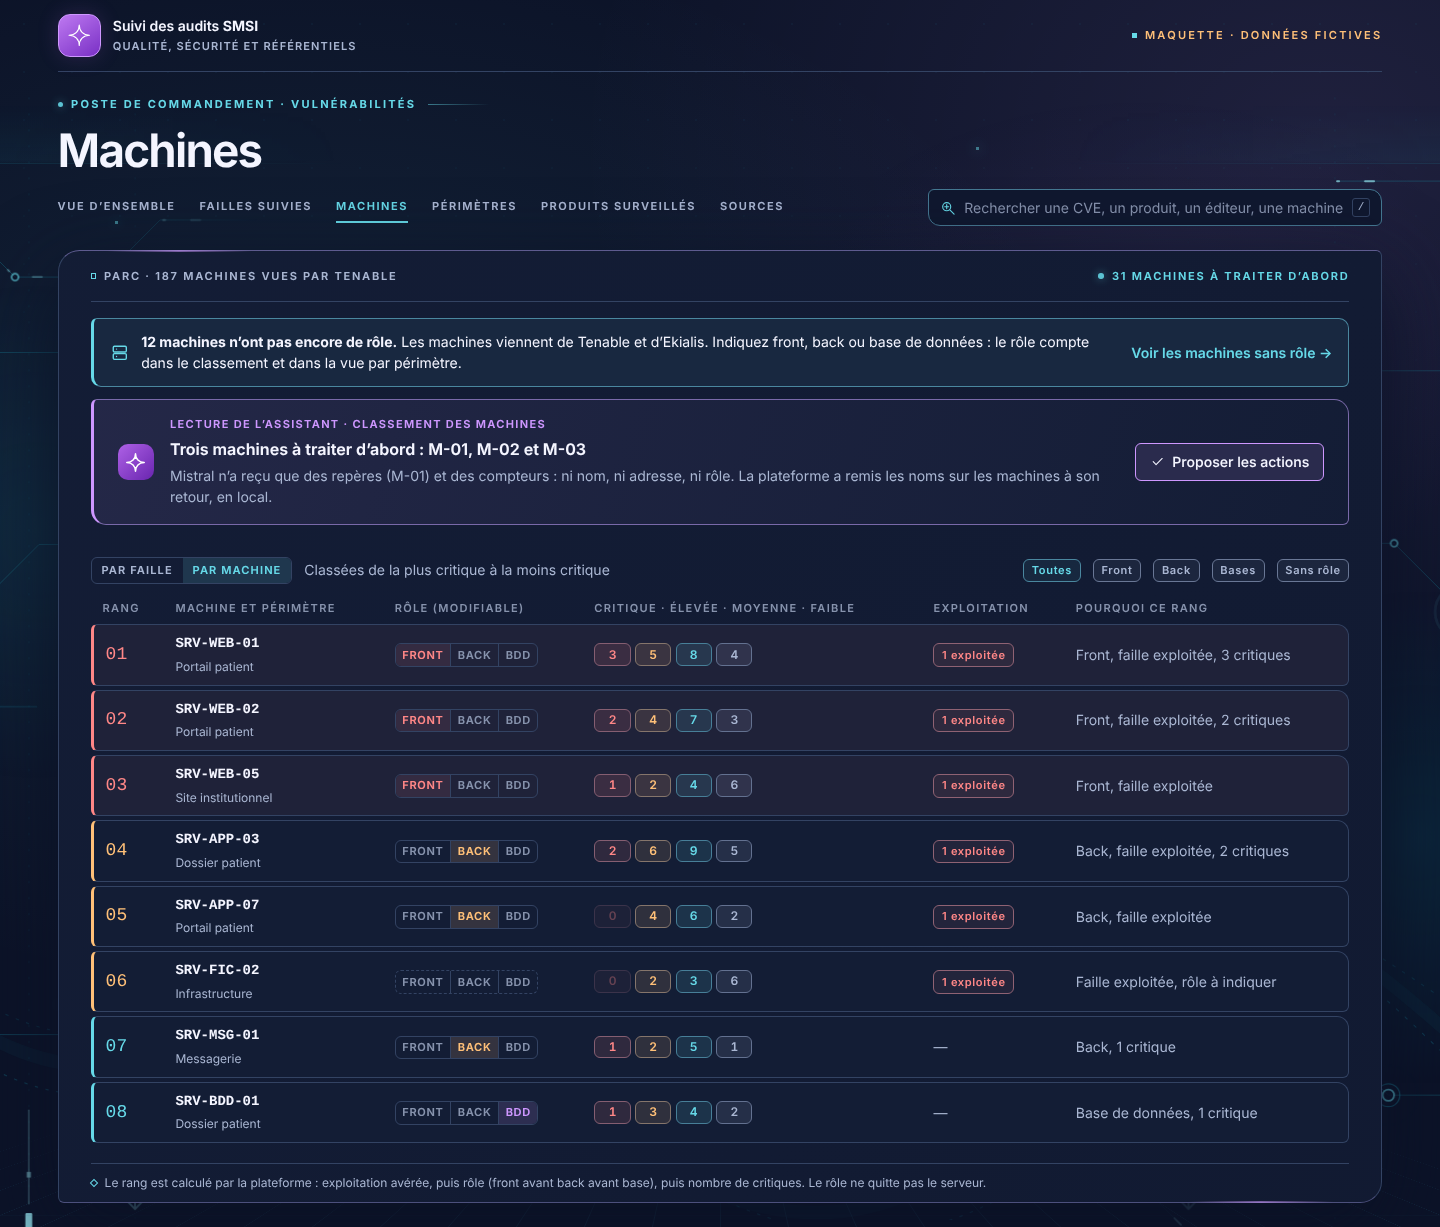
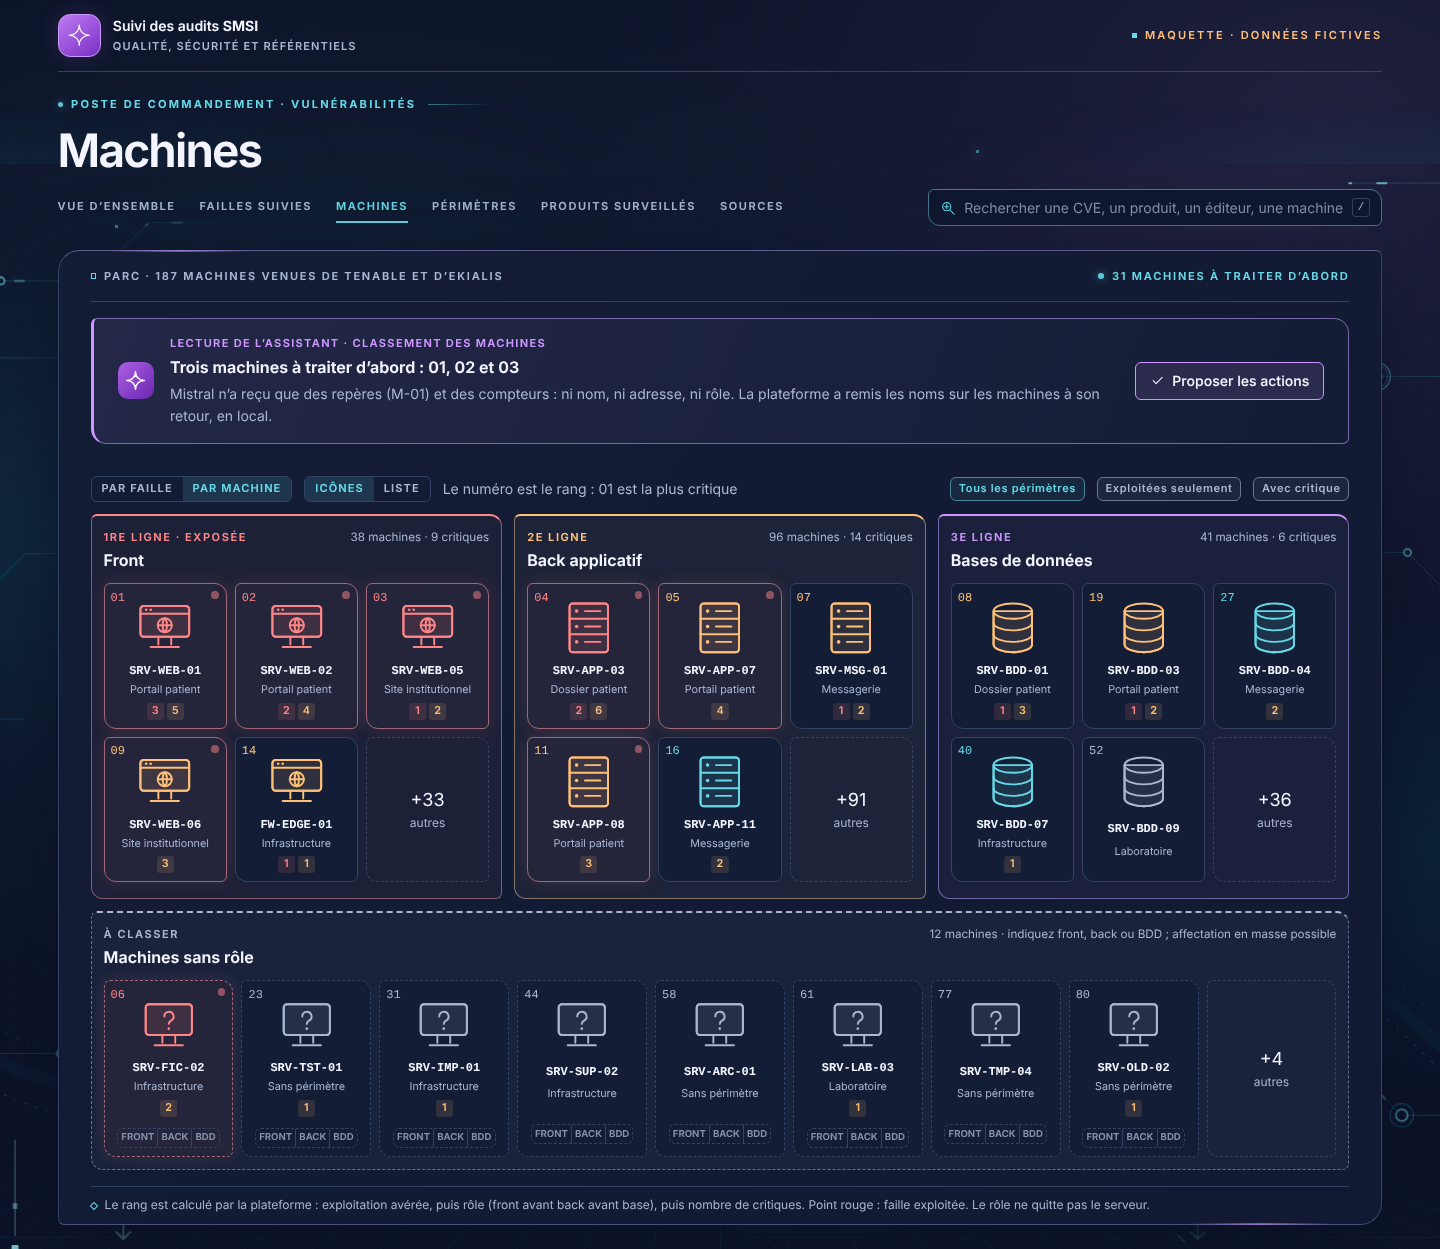
docs(vulnerabilites): maquette de la vue par machine en icônes, rangées par ligne
Demande du RSSI du 15/11/2026 : des icônes de machines regroupées par zone
(front, back applicatif, bases de données, sans rôle) à la place du tableau.

Session : « Module surveillance vulnérabilités SMSI » (session_01EnWdzdnc8fBi6Yrc154Jy6)

Claude-Session: https://claude.ai/code/session_01EnWdzdnc8fBi6Yrc154Jy6

diff --git a/docs/unification/CADRAGE-MODULE-VULNERABILITES.md b/docs/unification/CADRAGE-MODULE-VULNERABILITES.md
@@ -69,7 +69,7 @@ Elles ne montrent ni le menu latéral de l'application, ni le thème clair, ni l
 | Vue d'ensemble | [01-vue](maquettes-vulnerabilites/01-vue.png) | Niveau d'alerte, radar, cible prioritaire, journal de veille, cibles par priorité, état des sources |
 | Fiche d'une faille | [02-fiche](maquettes-vulnerabilites/02-fiche.png) | Position sur le radar, faits, vecteur d'attaque en clair et schéma, recommandations des sources, proposition de l'assistant, parcours |
 | Recherche, vue par faille | [03-failles](maquettes-vulnerabilites/03-failles.png) | Recherche, faille dépliée sur ses machines regroupées par rôle |
-| Vue par machine | [04-machines](maquettes-vulnerabilites/04-machines.png) | Rang, rôle modifiable, failles par gravité, lecture de l'assistant |
+| Vue par machine | [04-machines](maquettes-vulnerabilites/04-machines.png) | Machines en icônes rangées par ligne (front, back, bases, sans rôle), rang, failles par gravité, lecture de l’assistant |
 | Vue par périmètre | [05-perimetre](maquettes-vulnerabilites/05-perimetre.png) | Front, back applicatif et bases, reliés par ligne |
 | Produits surveillés | [06-produits](maquettes-vulnerabilites/06-produits.png) | Registre, origine, propositions venues d'Ekialis |
 
